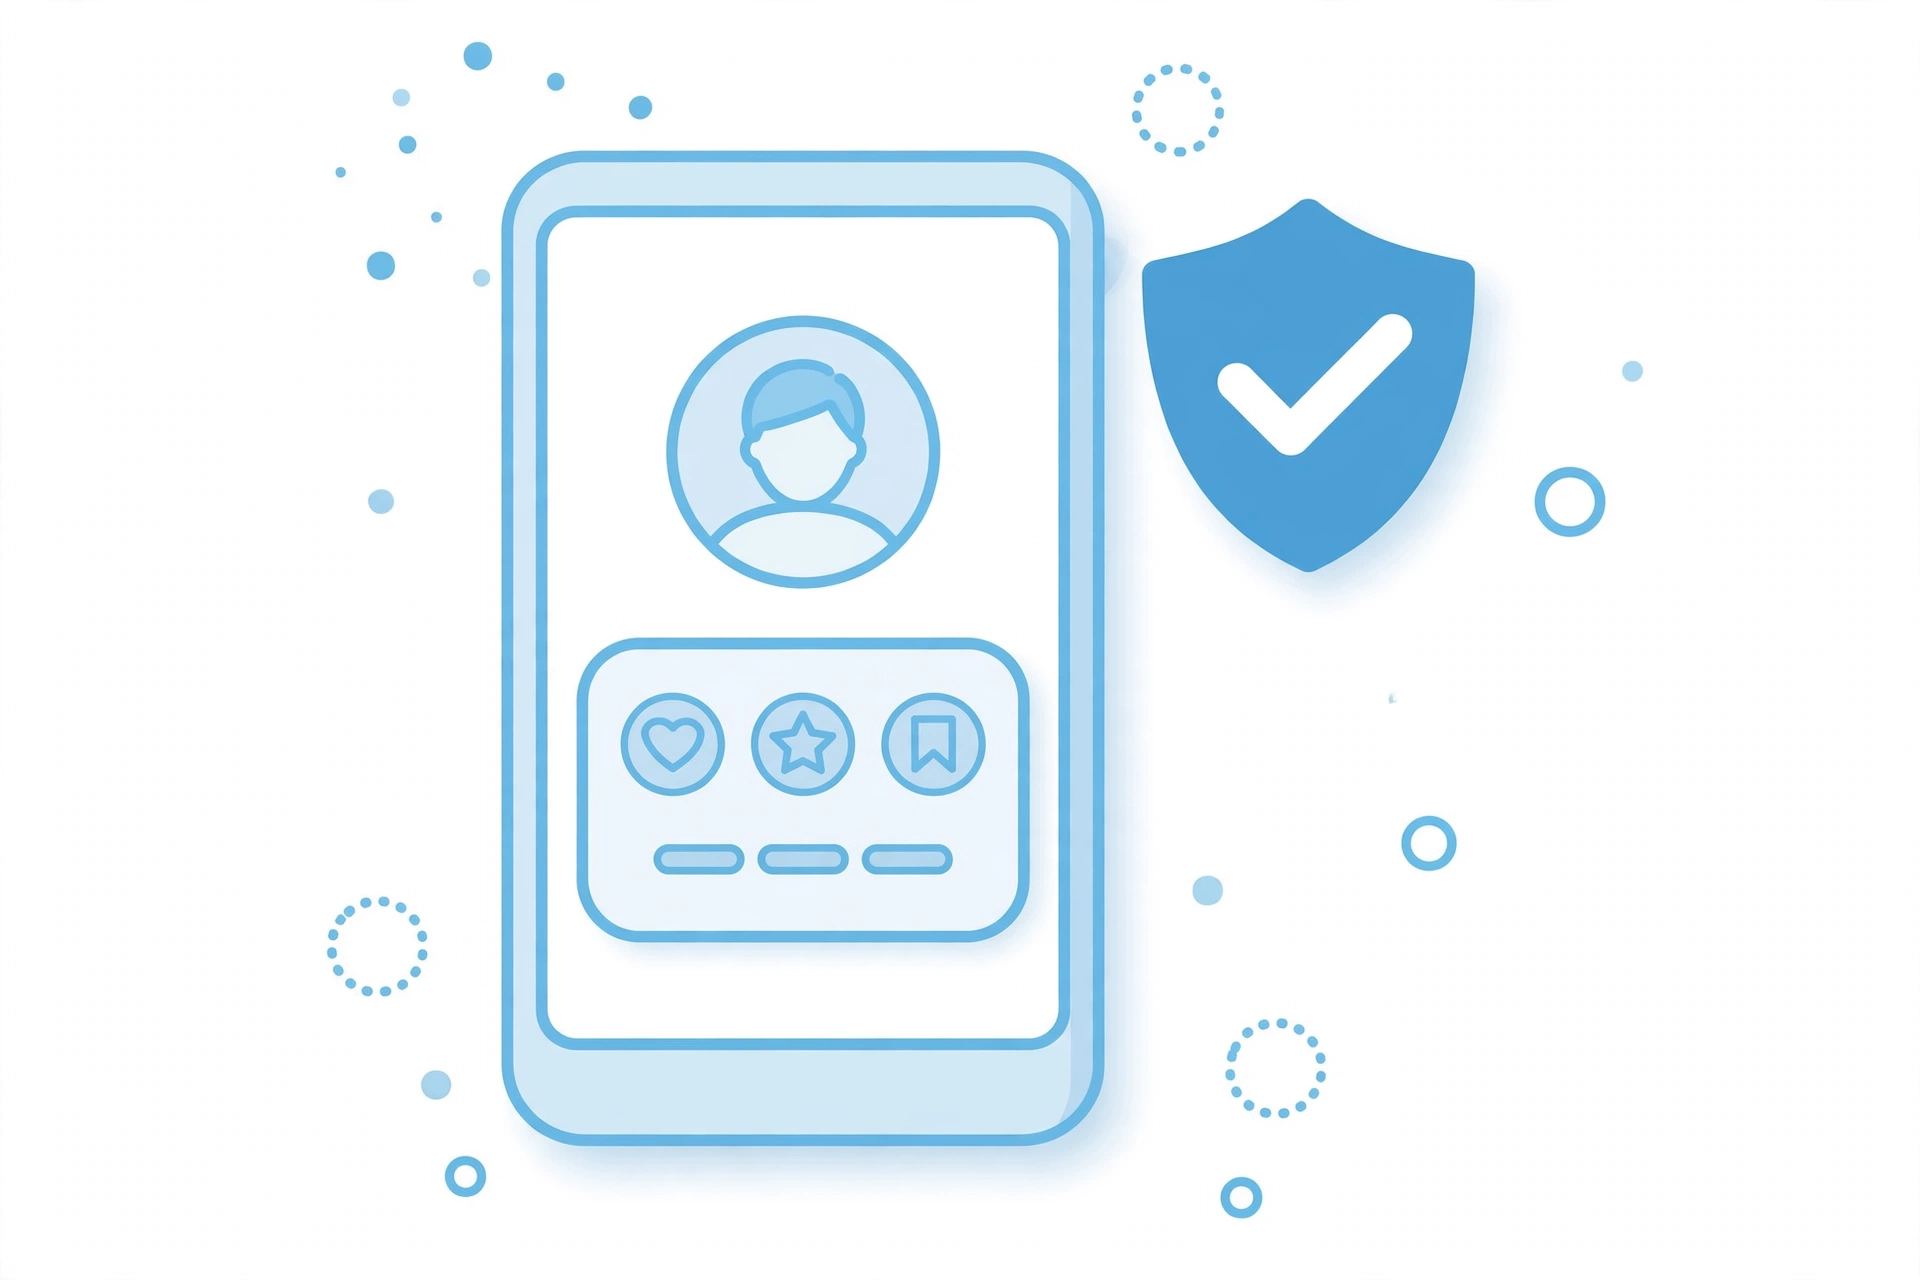
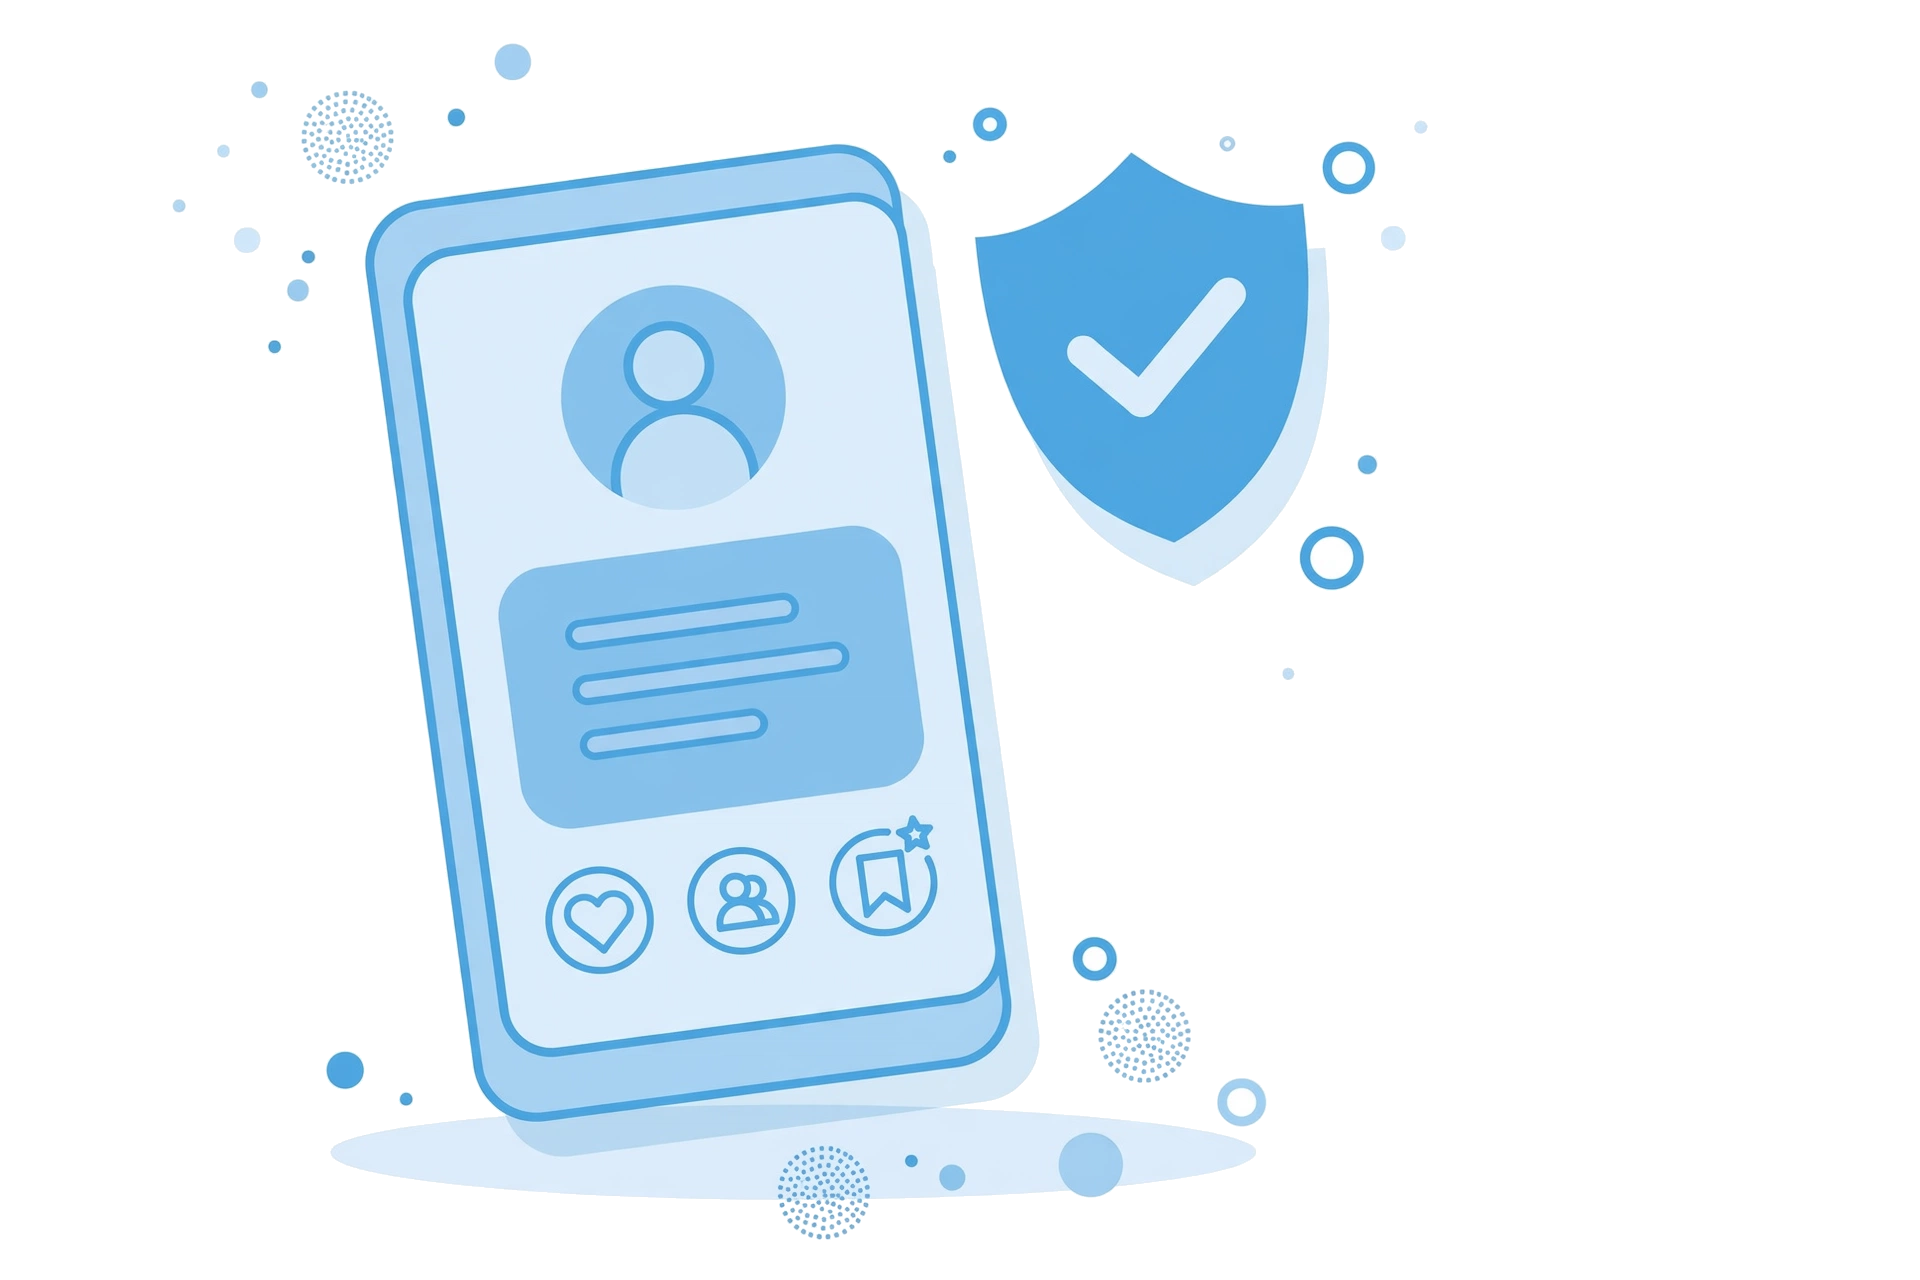
v1.0.90: transparent auth illustrations, success-state hide, smaller auth art

diff --git a/test/auth_redesign_test.dart b/test/auth_redesign_test.dart
@@ -1,10 +1,13 @@
 import 'package:flutter/material.dart';
 import 'package:flutter_test/flutter_test.dart';
 import 'package:go_router/go_router.dart';
+import 'package:http/http.dart' as http;
+import 'package:http/testing.dart';
 import 'package:loksewa_solution/screens/auth/forgot_password_screen.dart';
 import 'package:loksewa_solution/screens/auth/reset_password_screen.dart';
 import 'package:loksewa_solution/screens/auth/signup_screen.dart';
 import 'package:loksewa_solution/screens/login_screen.dart';
+import 'package:loksewa_solution/services/password_reset_service.dart';
 import 'package:loksewa_solution/widgets/auth/auth_header.dart';
 import 'package:loksewa_solution/widgets/auth/auth_screen_layout.dart';
 import 'package:shared_preferences/shared_preferences.dart';
@@ -191,6 +194,93 @@ void main() {
         findsOneWidget,
       );
       expect(find.text('New Password'), findsOneWidget);
+    });
+  });
+
+  group('Success states — illustration hides (user asked 2026-10-10)', () {
+    tearDown(() {
+      // Never leak a mock client into another test.
+      PasswordResetService.setTestClient(null);
+    });
+
+    testWidgets('forgot-password success hides the illustration',
+        (tester) async {
+      PasswordResetService.setTestClient(
+        MockClient((request) async => http.Response('{"ok":true}', 200)),
+      );
+      await _pumpApp(tester, '/forgot-password');
+
+      // Illustration visible on the form state.
+      expect(
+        _findAssetImage('assets/images/auth_illust_reset.png'),
+        findsOneWidget,
+      );
+
+      final fields = find.byType(TextField);
+      expect(fields, findsOneWidget);
+      await tester.enterText(fields, 'user@example.com');
+      await tester.tap(find.text('Send Reset Link'));
+      // Let the mocked worker future resolve, then the switchers animate.
+      await tester.pump(const Duration(milliseconds: 100));
+      await tester.pump(const Duration(milliseconds: 100));
+      await tester.pump(const Duration(milliseconds: 500));
+
+      expect(find.text('Check Your Email'), findsOneWidget);
+      expect(
+        _findAssetImage('assets/images/auth_illust_reset.png'),
+        findsNothing,
+      );
+    });
+
+    testWidgets('reset-password success hides the illustration',
+        (tester) async {
+      PasswordResetService.setTestClient(
+        MockClient((request) async => http.Response('{"ok":true}', 200)),
+      );
+      await _pumpApp(tester, '/auth/reset-password?token=tok123');
+
+      expect(
+        _findAssetImage('assets/images/auth_illust_reset.png'),
+        findsOneWidget,
+      );
+
+      final fields = find.byType(TextField);
+      expect(fields, findsNWidgets(2));
+      await tester.enterText(fields.at(0), 'newpass1');
+      await tester.enterText(fields.at(1), 'newpass1');
+      await tester.tap(find.text('Change Password'));
+      await tester.pump(const Duration(milliseconds: 100));
+      await tester.pump(const Duration(milliseconds: 100));
+      await tester.pump(const Duration(milliseconds: 500));
+
+      expect(find.text('Password reset successful'), findsOneWidget);
+      expect(
+        _findAssetImage('assets/images/auth_illust_reset.png'),
+        findsNothing,
+      );
+    });
+
+    testWidgets('reset-password error keeps the illustration', (tester) async {
+      PasswordResetService.setTestClient(
+        MockClient((request) async =>
+            http.Response('{"ok":false,"reason":"invalid_token"}', 200)),
+      );
+      await _pumpApp(tester, '/auth/reset-password?token=tok123');
+
+      final fields = find.byType(TextField);
+      expect(fields, findsNWidgets(2));
+      await tester.enterText(fields.at(0), 'newpass1');
+      await tester.enterText(fields.at(1), 'newpass1');
+      await tester.tap(find.text('Change Password'));
+      await tester.pump(const Duration(milliseconds: 100));
+      await tester.pump(const Duration(milliseconds: 100));
+      await tester.pump(const Duration(milliseconds: 500));
+
+      // Error state keeps the illustration for context (user asked).
+      expect(
+        _findAssetImage('assets/images/auth_illust_reset.png'),
+        findsOneWidget,
+      );
     });
   });
 }

diff --git a/lib/widgets/auth/auth_screen_layout.dart b/lib/widgets/auth/auth_screen_layout.dart
@@ -78,16 +78,34 @@ class _AuthScreenLayoutState extends State<AuthScreenLayout> {
                         mainAxisAlignment: MainAxisAlignment.center,
                         crossAxisAlignment: CrossAxisAlignment.stretch,
                         children: [
-                          if (widget.illustrationAsset != null)
-                            Padding(
-                              padding:
-                                  const EdgeInsets.only(top: 8, bottom: 20),
-                              child: Image.asset(
-                                widget.illustrationAsset!,
-                                height: widget.illustrationHeight,
-                                fit: BoxFit.contain,
+                          // Animated in/out (e.g. hidden on success states) —
+                          // same AnimatedSwitcher pattern as the login
+                          // email-form toggle (2026-10-10).
+                          AnimatedSwitcher(
+                            duration: const Duration(milliseconds: 300),
+                            transitionBuilder: (child, animation) =>
+                                FadeTransition(
+                              opacity: animation,
+                              child: SizeTransition(
+                                sizeFactor: animation,
+                                axisAlignment: -1,
+                                child: child,
                               ),
                             ),
+                            child: widget.illustrationAsset != null
+                                ? Padding(
+                                    key: ValueKey(widget.illustrationAsset),
+                                    padding: const EdgeInsets.only(
+                                        top: 8, bottom: 20),
+                                    child: Image.asset(
+                                      widget.illustrationAsset!,
+                                      height: widget.illustrationHeight,
+                                      fit: BoxFit.contain,
+                                    ),
+                                  )
+                                : const SizedBox.shrink(
+                                    key: ValueKey('no-illustration')),
+                          ),
                           widget.child,
                         ],
                       ),

diff --git a/test/app_info_screen_test.dart b/test/app_info_screen_test.dart
@@ -51,7 +51,7 @@ void main() {
 
       expect(find.text('Loksewa Solution'), findsOneWidget);
       expect(find.text('Prepare Smarter, Score Higher'), findsOneWidget);
-      expect(find.text('Version 1.0.89'), findsOneWidget);
+      expect(find.text('Version 1.0.90'), findsOneWidget);
       expect(find.byType(StatusPill), findsOneWidget);
       expect(find.byType(Image), findsWidgets);
     });
@@ -134,7 +134,7 @@ void main() {
 
       expect(find.text('एप जानकारी'), findsOneWidget);
       expect(find.text('राम्रो तयारी, उच्च अंक'), findsOneWidget);
-      expect(find.text('संस्करण १.०.८९'), findsOneWidget);
+      expect(find.text('संस्करण १.०.९०'), findsOneWidget);
       expect(find.text('बारेमा'), findsOneWidget);
       expect(find.text('तपाईंले पाउने कुरा'), findsOneWidget);
       expect(find.text('सम्पर्क'), findsOneWidget);

diff --git a/lib/screens/auth/reset_password_screen.dart b/lib/screens/auth/reset_password_screen.dart
@@ -262,8 +262,11 @@ class _ResetPasswordScreenState extends State<ResetPasswordScreen> {
               'Choose a strong new password for your account',
               'आफ्नो खाताको लागि बलियो नयाँ पासवर्ड छान्नुहोस्'),
           // Flat reset illustration between header and card (user mockup,
-          // 2026-10-10) — compact since the form is tall.
-          illustrationAsset: 'assets/images/auth_illust_reset.png',
+          // 2026-10-10) — compact since the form is tall. Hidden on the
+          // success state (user asked 2026-10-10); kept on form + error.
+          illustrationAsset: _status == _ResetStatus.success
+              ? null
+              : 'assets/images/auth_illust_reset.png',
           illustrationHeight: 150,
           // The form shows instantly — no preloading shimmer (user asked for
           // direct display on 2026-10-10). Back goes to /login for logged-out

diff --git a/lib/screens/auth/forgot_password_screen.dart b/lib/screens/auth/forgot_password_screen.dart
@@ -233,7 +233,9 @@ class _ForgotPasswordScreenState extends State<ForgotPasswordScreen> {
           onBack: () => context.pop(),
           // Flat reset illustration fills the space between header and card
           // (user mockup, 2026-10-10) — compact since the form is tall.
-          illustrationAsset: 'assets/images/auth_illust_reset.png',
+          // Hidden once the "Check Your Email" success state shows
+          // (user asked 2026-10-10); kept on error/banner states.
+          illustrationAsset: _sent ? null : 'assets/images/auth_illust_reset.png',
           illustrationHeight: 150,
           // The form shows instantly — no preloading shimmer (user asked
           // for direct display on 2026-10-10).

diff --git a/test/delete_account_screen_test.dart b/test/delete_account_screen_test.dart
@@ -124,7 +124,7 @@ void main() {
       expect(record['message'], 'Please delete my account now.');
       expect(record['status'], 'pending');
       expect(record['requestedAt'], isNotNull);
-      expect(record['appVersion'], '1.0.89');
+      expect(record['appVersion'], '1.0.90');
       expect(record.containsKey('uid'), isTrue);
 
       // One Discord post with the red deletion-request embed.

diff --git a/lib/screens/auth/app_info_screen.dart b/lib/screens/auth/app_info_screen.dart
@@ -22,7 +22,7 @@ class AppInfoScreen extends StatefulWidget {
   const AppInfoScreen({super.key});
 
   /// Displayed app version. BUMP WITH EVERY RELEASE — see ~/AGENTS.md.
-  static const _appVersion = '1.0.89';
+  static const _appVersion = '1.0.90';
 
   /// Public read of the app version for other screens
   /// (e.g. the account-deletion-request Discord embed).

diff --git a/lib/screens/auth/signup_screen.dart b/lib/screens/auth/signup_screen.dart
@@ -325,7 +325,7 @@ class _SignupScreenState extends State<SignupScreen>
           padding: const EdgeInsets.only(top: 4, bottom: 20),
           child: Image.asset(
             'assets/images/auth_illust_signup.png',
-            height: 200,
+            height: 160,
             fit: BoxFit.contain,
           ),
         ),

diff --git a/lib/screens/login_screen.dart b/lib/screens/login_screen.dart
@@ -281,7 +281,7 @@ class _LoginScreenState extends State<LoginScreen>
           padding: const EdgeInsets.only(top: 4, bottom: 20),
           child: Image.asset(
             'assets/images/auth_illust_login.png',
-            height: 200,
+            height: 160,
             fit: BoxFit.contain,
           ),
         ),
